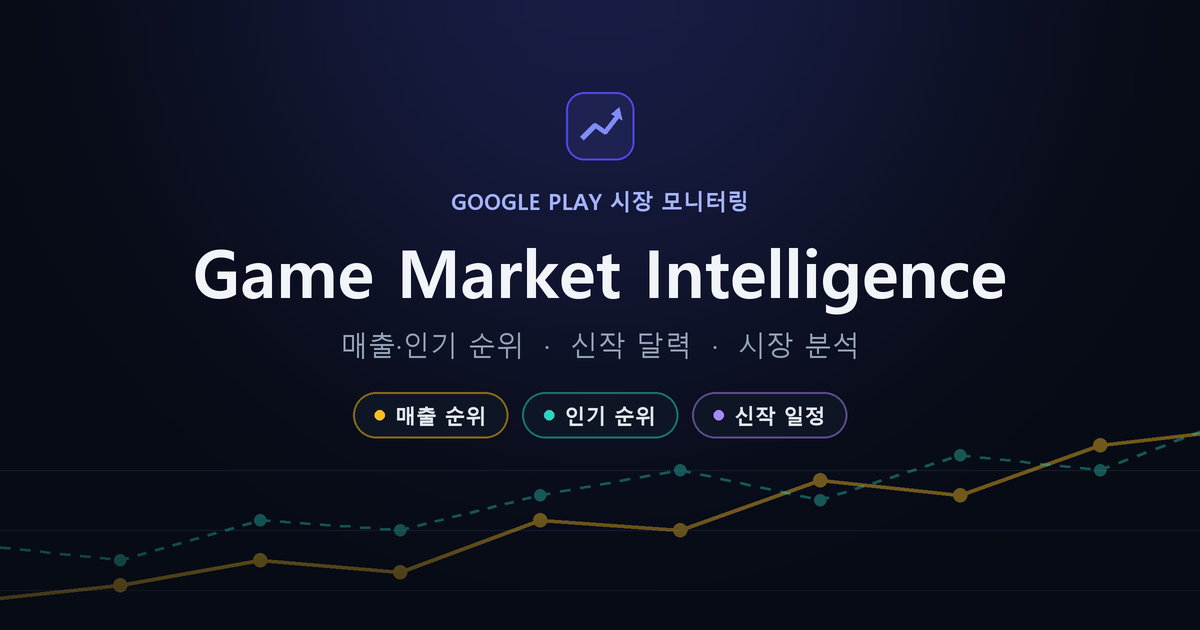
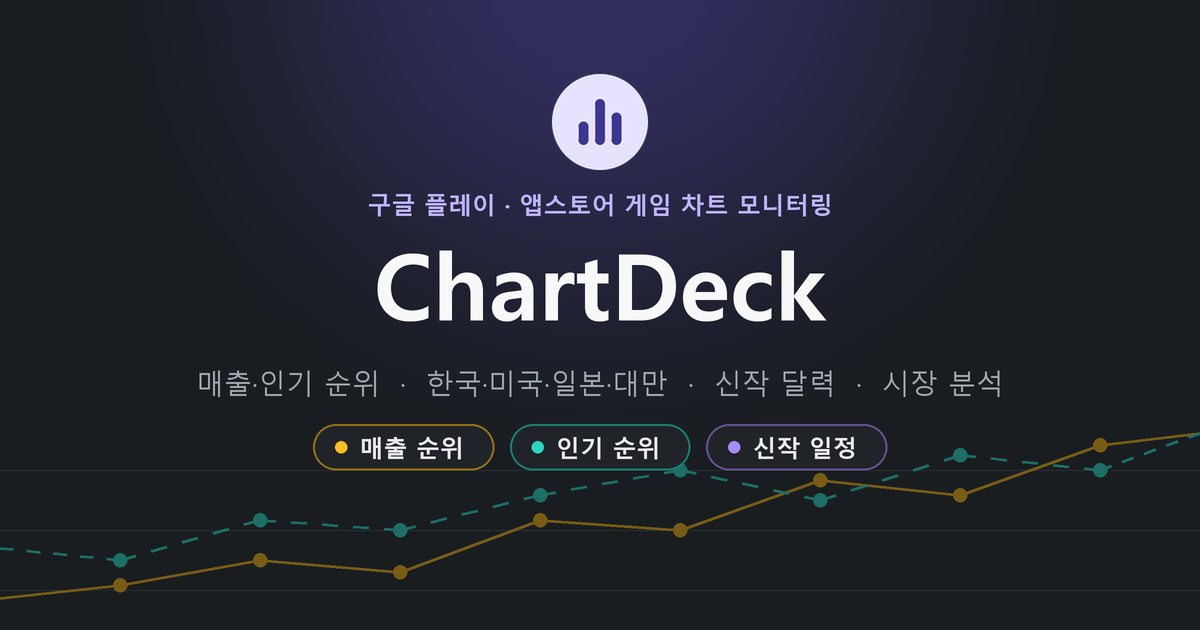
브랜드: ChartDeck + 새 로고, 일간 브리핑 → 일간 요약
- 사이드바 로고: 연보라 원형 타일 + 순위 막대(메뉴 아이콘과 구분), 이름 한 줄 'ChartDeck' (접어도 아이콘 중심 32px 유지)
- 탭 제목·링크 미리보기 이름·주간 리포트 머리글도 ChartDeck
- 파비콘(SVG·32px)·아이폰 홈 아이콘·링크 미리보기 이미지를 새 로고·차콜 톤으로, 캐시 갱신용 ?v=2
- 메뉴 '일간 브리핑' → '일간 요약'

diff --git a/index.html b/index.html
@@ -3,24 +3,24 @@
 <head>
 <meta charset="UTF-8">
 <meta name="viewport" content="width=device-width, initial-scale=1.0">
-<title>Game Market Intelligence</title>
+<title>ChartDeck</title>
 <!-- 링크 미리보기 (카카오톡·슬랙·트위터 등): 이미지는 절대 주소, 바꿀 때는 ?v= 숫자를 올려 캐시 갱신 -->
 <meta name="description" content="Google Play 매출·인기 순위, 신작 달력, 시장 분석을 매일 아침 한눈에.">
 <meta property="og:type" content="website">
-<meta property="og:site_name" content="Game Market Intelligence">
-<meta property="og:title" content="Game Market Intelligence">
+<meta property="og:site_name" content="ChartDeck">
+<meta property="og:title" content="ChartDeck">
 <meta property="og:description" content="Google Play 매출·인기 순위, 신작 달력, 시장 분석을 매일 아침 한눈에.">
 <meta property="og:url" content="https://jdpark618.github.io/dashboard/">
-<meta property="og:image" content="https://jdpark618.github.io/dashboard/og-image.png?v=1">
+<meta property="og:image" content="https://jdpark618.github.io/dashboard/og-image.png?v=2">
 <meta property="og:image:width" content="1200">
 <meta property="og:image:height" content="630">
-<meta property="og:image:alt" content="Game Market Intelligence - 매출·인기 순위, 신작 달력, 시장 분석">
+<meta property="og:image:alt" content="ChartDeck - 매출·인기 순위, 신작 달력, 시장 분석">
 <meta property="og:locale" content="ko_KR">
 <meta name="twitter:card" content="summary_large_image">
 <!-- 브라우저 탭 아이콘: SVG 우선, 안 되는 브라우저는 PNG, 아이폰 홈 화면은 apple-touch-icon -->
-<link rel="icon" href="favicon.svg" type="image/svg+xml">
-<link rel="icon" href="favicon-32.png" sizes="32x32" type="image/png">
-<link rel="apple-touch-icon" href="apple-touch-icon.png">
+<link rel="icon" href="favicon.svg?v=2" type="image/svg+xml">
+<link rel="icon" href="favicon-32.png?v=2" sizes="32x32" type="image/png">
+<link rel="apple-touch-icon" href="apple-touch-icon.png?v=2">
 <meta name="theme-color" content="#191d20">
 <script>
 /* 첫 진입 속도: 시트 3개 요청을 Tailwind 등 외부 스크립트보다 먼저 보내 응답 대기를 스크립트 로딩과 겹치게 함.
@@ -169,10 +169,11 @@ body { background:var(--bg); font-family:'Pretendard Variable',Pretendard,-apple
 @media (min-width:1024px){ html.sb-mini { --sb-w:64px; } }
 .side-nav { position:fixed; top:0; left:0; bottom:0; width:var(--sb-w); z-index:45; display:flex; flex-direction:column; background:#191d20; border-right:1px solid var(--line); transition:width .18s, transform .2s; overflow:hidden; }
 .side-nav svg { width:20px; height:20px; stroke-width:2; flex:none; }
-.sb-head { height:52px; flex:none; display:flex; align-items:center; padding:0 10px 0 22px; border-bottom:1px solid var(--line); }
+.sb-head { height:52px; flex:none; display:flex; align-items:center; padding:0 10px 0 17px; border-bottom:1px solid var(--line); }
 .sb-brand { display:flex; align-items:center; gap:10px; height:36px; }
-.sb-logo { position:relative; display:inline-flex; flex:none; color:#a59aff; }
-.sb-brand b { font-size:14px; font-weight:800; line-height:1.25; color:#e8eaed; white-space:nowrap; }
+.sb-logo { position:relative; display:inline-flex; align-items:center; justify-content:center; flex:none; width:30px; height:30px; border-radius:50%; background:#e6e3ff; color:#3d3690; }
+.side-nav .sb-logo svg { width:17px; height:17px; stroke-width:2.6; }   /* 메뉴 아이콘(회색 선)과 구분: 원형 채운 타일 + 순위 막대 */
+.sb-brand b { font-size:16px; font-weight:800; letter-spacing:-.02em; color:#f7f8f8; white-space:nowrap; }
 .sb-scroll { flex:1; overflow-y:auto; overflow-x:hidden; padding:6px 10px 8px; }
 /* 그룹 제목 줄: 펼침은 글자, 접힘은 가운데 선 (높이는 같음). .raw(분석·RAW DATA)는 위에 선을 하나 더 두고 여백도 넓게 */
 .sb-group { position:relative; height:32px; display:flex; align-items:flex-end; padding:0 0 7px 12px; font-size:10.5px; font-weight:700; letter-spacing:.08em; color:#8a9298; white-space:nowrap; }
@@ -944,7 +945,7 @@ html.panel-lock { overflow: hidden; }
 <!-- 왼쪽 사이드바: 서비스명 / 분석 · 일정 · RAW DATA 메뉴 (시장 분석은 하위 메뉴) / 아래 접기 -->
 <aside id="sideNav" class="side-nav" aria-label="메뉴">
   <div class="sb-head">
-    <div class="sb-brand"><span class="sb-logo"><i data-lucide="chart-line"></i></span><b>Game Market<br>Intelligence</b></div>
+    <div class="sb-brand"><span class="sb-logo"><i data-lucide="chart-no-axes-column"></i></span><b>ChartDeck</b></div>
   </div>
   <nav class="sb-scroll thin-scroll">
     <div class="sb-group">모니터링</div>
@@ -952,7 +953,7 @@ html.panel-lock { overflow: hidden; }
     <button class="sb-item" data-view="global" onclick="switchView('global')" data-tip="글로벌 순위"><i data-lucide="globe"></i><span class="sb-tx">글로벌 순위</span></button>
     <button class="sb-item" data-view="watch" onclick="switchView('watch')" data-tip="관심 게임"><i data-lucide="star"></i><span class="sb-tx">관심 게임</span><span id="sbWatchN" class="sb-tx sb-cnt"></span></button>
     <div class="sb-group raw">분석</div>
-    <button class="sb-item" data-view="dashboard" onclick="switchView('dashboard')" data-tip="일간 브리핑"><i data-lucide="gauge"></i><span class="sb-tx">일간 브리핑</span></button>
+    <button class="sb-item" data-view="dashboard" onclick="switchView('dashboard')" data-tip="일간 요약"><i data-lucide="gauge"></i><span class="sb-tx">일간 요약</span></button>
     <div class="sb-wrap" id="sbRank">
       <button class="sb-item" data-view="ranking" onclick="sbGroupClick('sbRank')" aria-expanded="false"><i data-lucide="list-ordered"></i><span class="sb-tx">전체 순위</span><span class="sb-tx sb-chev"><i data-lucide="chevron-down"></i></span></button>
       <div class="sb-sub"><button type="button" data-go="ranking" onclick="sbGo('ranking')">일간 순위</button><button type="button" data-go="market" onclick="sbGo('market')">일간 마켓별 순위</button><button type="button" data-go="monthly" onclick="sbGo('monthly')">월간/주간 순위</button></div>
@@ -6936,7 +6937,7 @@ function rpPubClean(p){
 function rpRender(D){
   const S = D.S, R = v => Math.round(v), esc = escapeHtml, cut = (t, n) => t.length > n ? t.slice(0, n) + '…' : t;
   const relPages = rpRelPaginate(D), isFirst = f => f && f >= D.pmon, PAGES = 4 + relPages.length, period = rpWeekRange(D.mon);
-  const run = n => `<div class="rp-run"><span><b>Game Market Intelligence</b> · 주간 리포트</span><span>${period} · ${n}/${PAGES}</span></div>`;
+  const run = n => `<div class="rp-run"><span><b>ChartDeck</b> · 주간 리포트</span><span>${period} · ${n}/${PAGES}</span></div>`;
   const foot = `<div class="rp-foot"><span>Google Play 국내 매출·인기 순위(일별 TOP100) 기준</span><span>발행 ${D.issue}</span></div>`;
   /* 1쪽 분석: 고정 질문 4개에 결론 한 줄 + 근거 한 줄. 맨 위 한 문장은 질문들의 판정을 이어 붙임.
      게임명은 굵게, 조사를 바로 붙이지 않음 */
